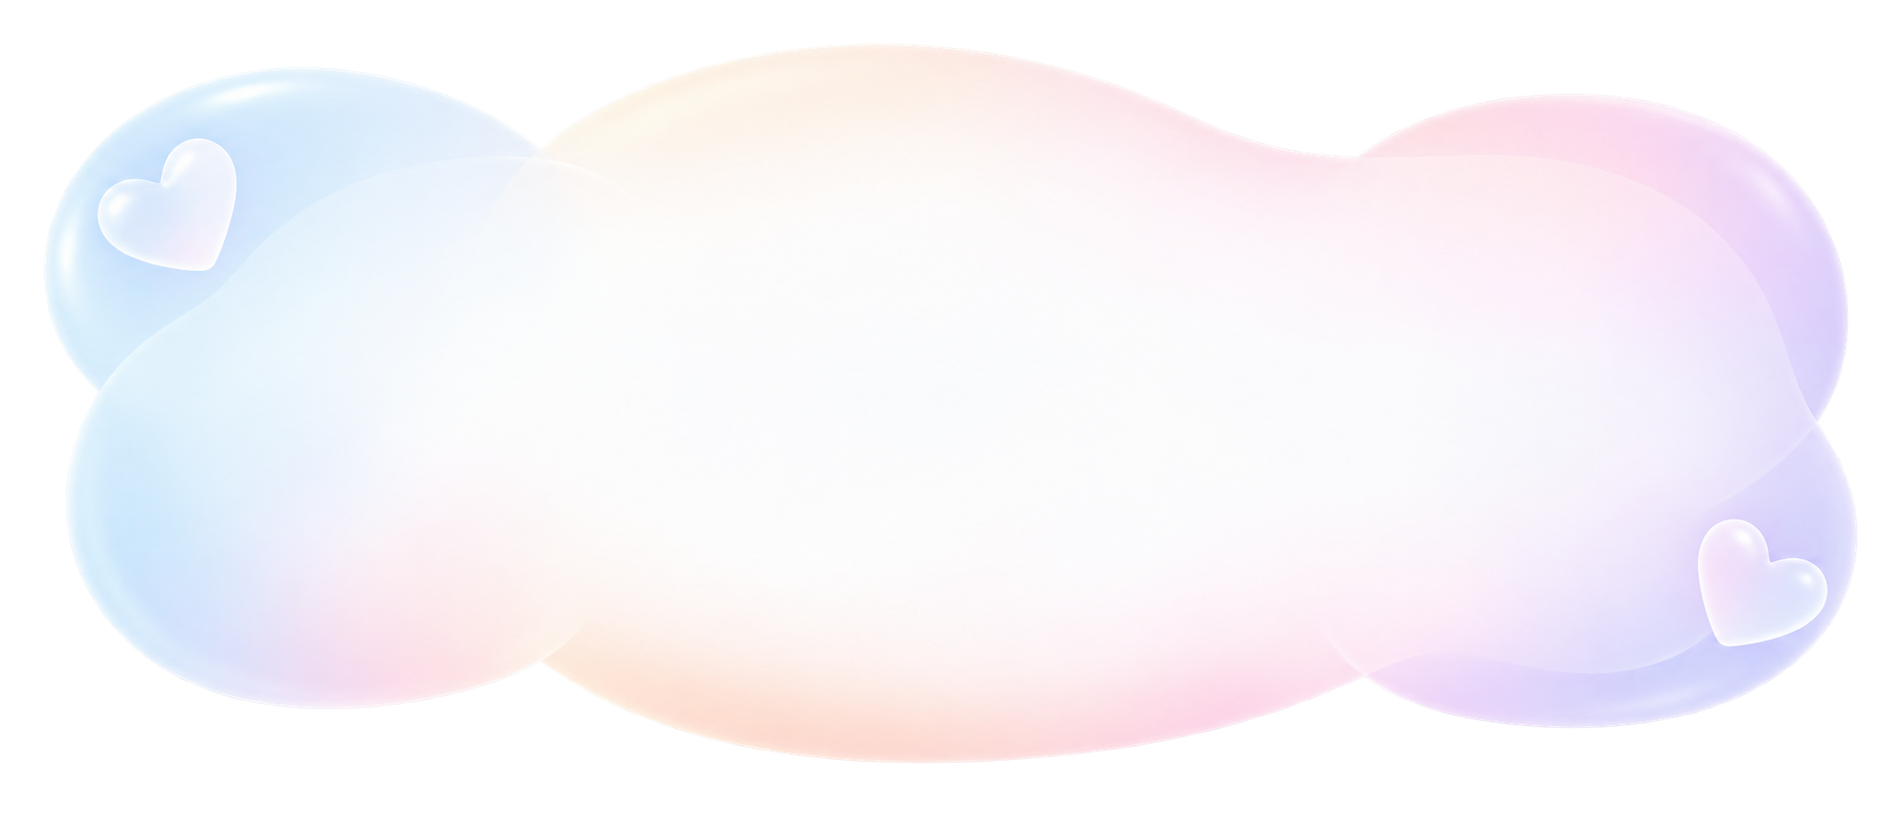
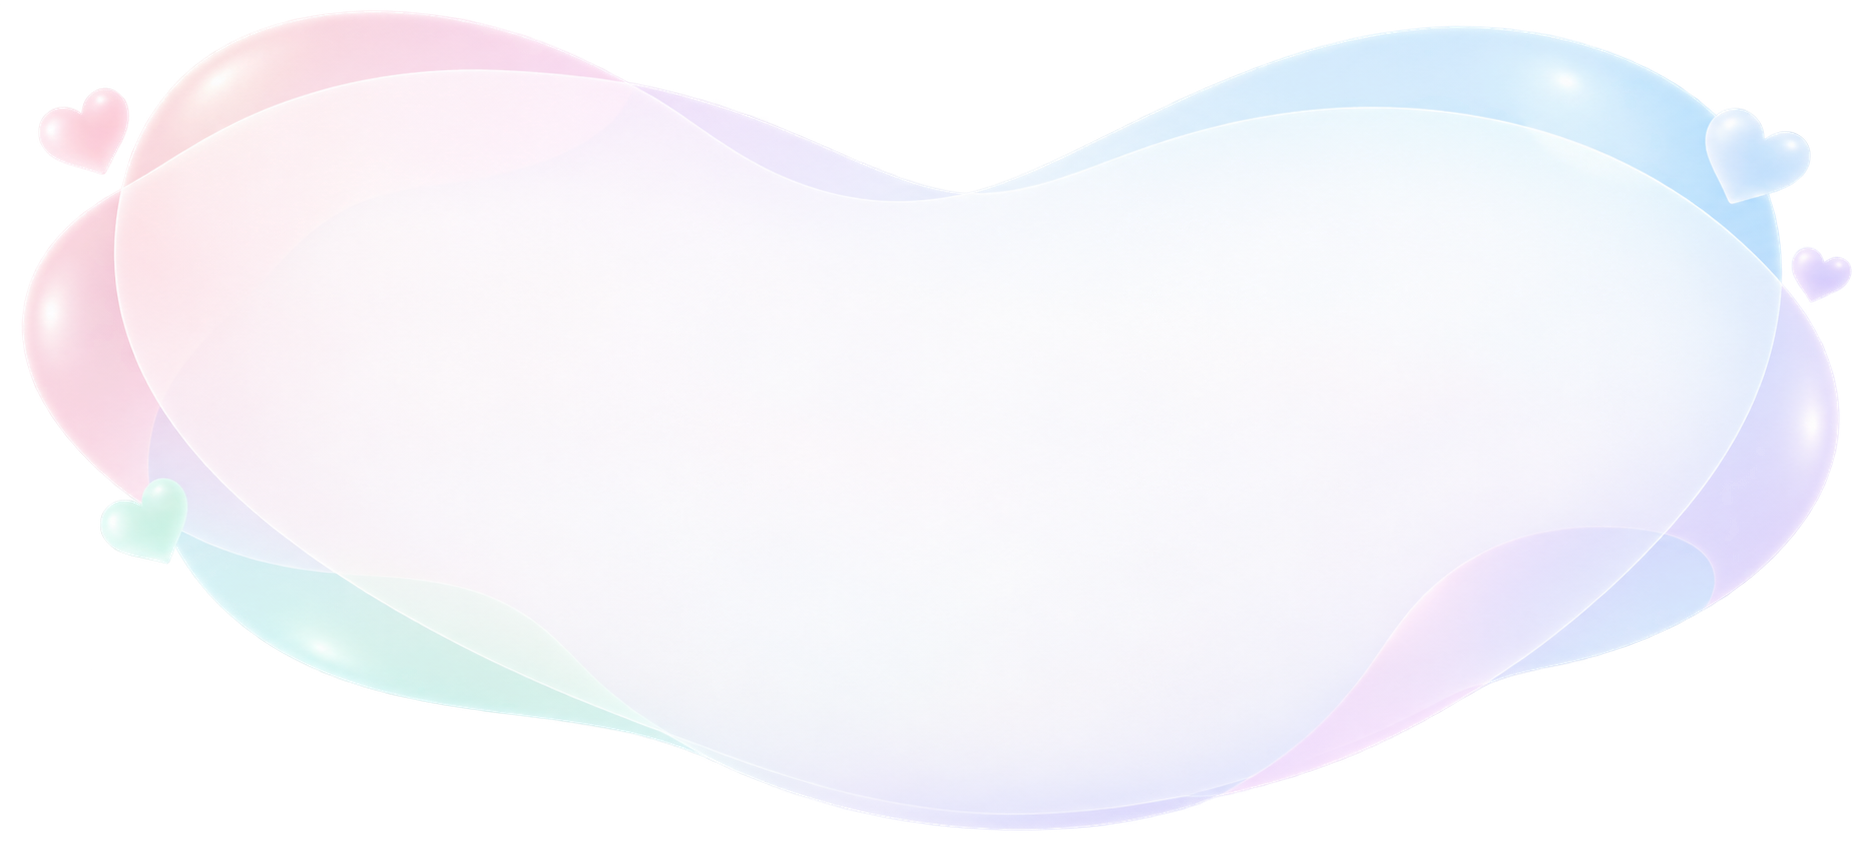
Refine birthday celebration heart effects

diff --git a/src/app/globals.css b/src/app/globals.css
@@ -698,6 +698,25 @@ button { color: inherit; }
 @media(max-width:760px){.birthday-celebration-workspace{grid-template-columns:1fr}.birthday-celebrants-preview{min-height:0}.birthday-celebrant-list{grid-template-columns:1fr}.birthday-celebration-launch{grid-template-columns:1fr}.birthday-celebration-launch button{grid-column:1;grid-row:auto;width:100%}.birthday-month-grid-selector{grid-template-columns:repeat(4,1fr)}}
 
 .birthday-display-content { z-index: 1; top: 50%; bottom: auto; aspect-ratio: 16 / 7; transform: translateY(-50%); isolation: isolate; }
+
+/* Birthday celebration: heart-shaped name panel and gently rising heart bubbles. */
+.birthday-display-content { top: 6vh; right: auto; left: 55%; width: min(70vw,1220px); aspect-ratio: 47 / 20; transform: translateX(-50%); }
+.birthday-display-copy { width: 82%; max-height: 78%; transform: translateY(-2%); }
+.birthday-display-copy>p { font-size: clamp(27px,2.65vw,46px); }
+.birthday-display-copy>h1 { margin: 4px 0 16px; font-size: clamp(16px,1.35vw,24px); }
+.birthday-display-names b { font-size: clamp(28px,2.5vw,46px); }
+.birthday-display-names.medium b { font-size: clamp(24px,2.1vw,38px); }
+.birthday-display-names.many b { font-size: clamp(20px,1.7vw,30px); }
+.birthday-heart-shower i { top: auto; bottom: -12%; filter: drop-shadow(0 3px 5px rgba(179,94,128,.16)); will-change: transform,opacity; }
+.birthday-display.celebrating .birthday-heart-shower i { animation-name: birthdayHeartBubble; animation-timing-function: ease-out; animation-iteration-count: infinite; }
+.birthday-display:not(.celebrating) .birthday-heart-shower i { animation: none; opacity: 0; }
+@keyframes birthdayHeartBubble {
+  0% { opacity: 0; transform: translate3d(0,10vh,0) scale(.55) rotate(-8deg); }
+  12% { opacity: .68; }
+  38% { transform: translate3d(-2.8vw,-34vh,0) scale(.82) rotate(7deg); }
+  68% { opacity: .58; transform: translate3d(3.2vw,-70vh,0) scale(1.02) rotate(-5deg); }
+  100% { opacity: 0; transform: translate3d(-1.5vw,-118vh,0) scale(1.18) rotate(9deg); }
+}
 @media (max-width:899px) { .gem-ranking-display-link { display:none; } }
 
 /* Full-screen gem ranking: approved Figma direction */

diff --git a/src/app/dashboard/birthday-celebration/display/birthday-celebration-display.tsx b/src/app/dashboard/birthday-celebration/display/birthday-celebration-display.tsx
@@ -16,6 +16,6 @@ export function BirthdayCelebrationDisplay({ people, months }: { people: Birthda
     <Image className="birthday-display-background" src="/birthday-celebration-bg.png" alt="예수님과 아이들이 밝은 정원에서 생일을 축하하는 모습" fill priority sizes="100vw"/>
     <header className="birthday-display-toolbar"><button type="button" onClick={replay}>다시 축하하기</button><button type="button" onClick={toggleFullscreen}>{isFullscreen ? '전체화면 종료' : '전체화면'}</button><button type="button" onClick={() => window.close()}>창 닫기</button></header>
     <section className="birthday-display-content"><Image className="birthday-name-panel" src="/birthday-name-panel.png" alt="" fill priority sizes="65vw"/><div className="birthday-display-copy"><p>{monthTitle} 생일을 축하해요!</p><h1>사랑하고 축복합니다</h1><div className={`birthday-display-names ${sizeClass}`}>{people.map((person, index) => <span key={`${person.personType}-${person.id}`} style={{ animationDelay: `${Math.min(index * 90, 900)}ms` }}><b>{person.fullName}</b><small>{person.personType === 'teacher' ? '선생님' : `${Number(person.monthDay.slice(0, 2))}/${Number(person.monthDay.slice(3, 5))}`}</small></span>)}</div></div></section>
-    <div className="birthday-heart-shower" aria-hidden="true">{Array.from({ length: 18 }, (_, index) => <i key={index}>♥</i>)}</div>
+    <div className="birthday-heart-shower" aria-hidden="true">{Array.from({ length: 30 }, (_, index) => <i key={index} style={{ left: `${(index * 37) % 97}%`, animationDelay: `-${(index * 0.47).toFixed(2)}s`, animationDuration: `${5.8 + (index % 5) * 0.65}s`, fontSize: `${13 + (index % 4) * 4}px` }}>♥</i>)}</div>
   </main>;
 }
